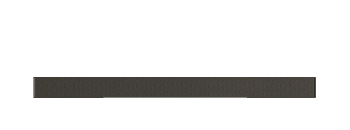
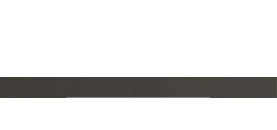
Added extender to paddle

diff --git a/qml/mong/Paddle.qml b/qml/mong/Paddle.qml
@@ -18,6 +18,7 @@
 
 import Qt 4.7
 
+
 Item {
     id: paddle
     property bool animationActive: false
@@ -64,9 +65,11 @@ Item {
         }
     }
 
-//    Image {
-//        source: "img/paddle/extender.png"
-//    }
+    Image {
+        source: "img/paddle/extender.png"
+        anchors.left: paddleLeft.horizontalCenter
+        anchors.right: paddleRight.horizontalCenter
+    }
 
     PaddleMiddle {
         id: paddleMiddle
